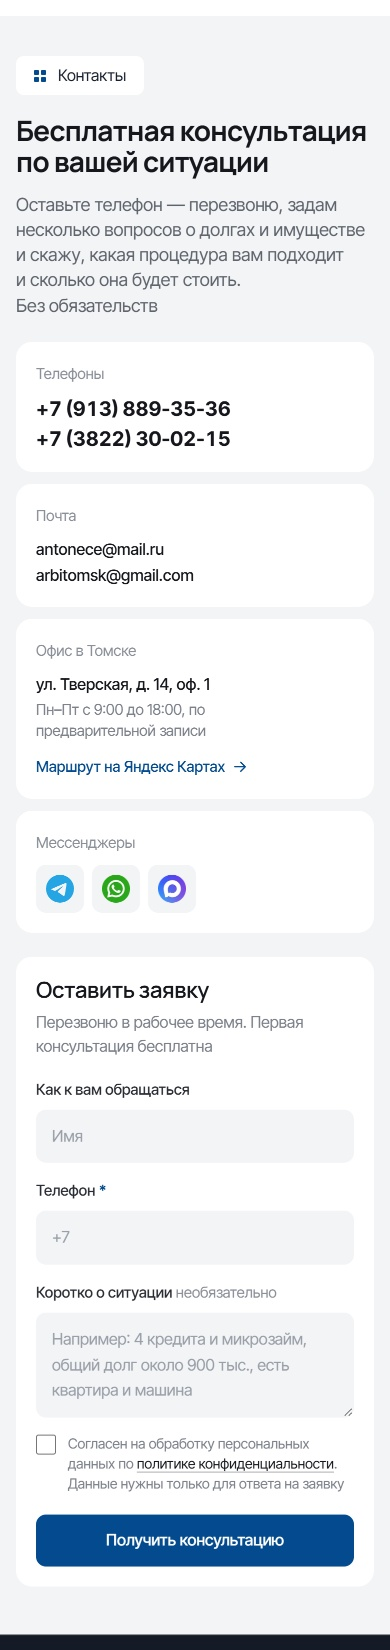
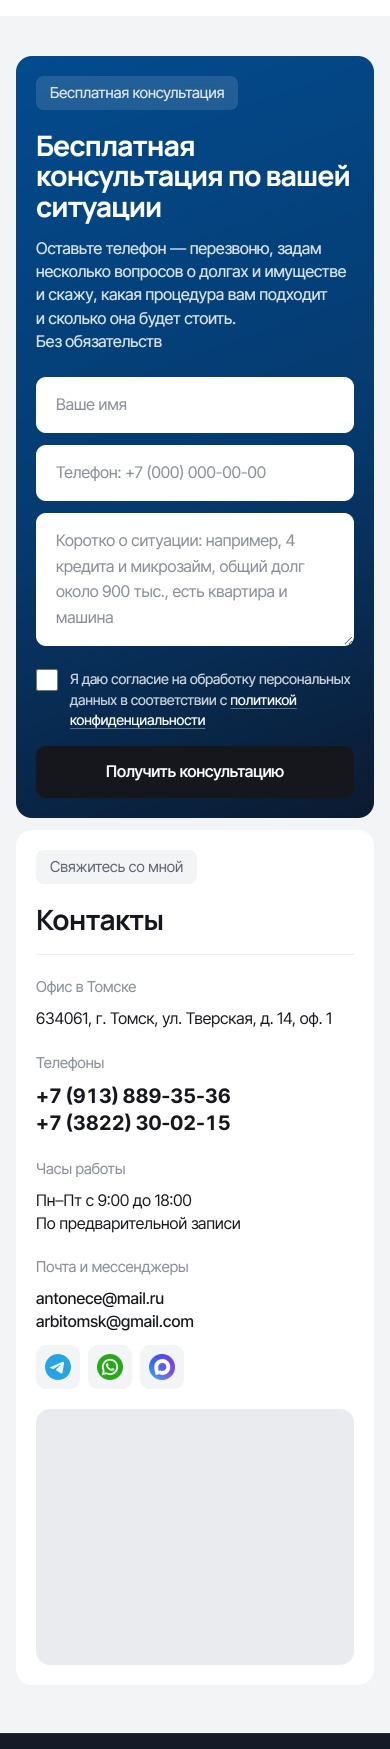
Форма и контакты: синяя карточка с формой, контакты с картой Яндекса

diff --git a/src/data/site.ts b/src/data/site.ts
@@ -57,8 +57,8 @@ export const contacts = {
   telegram: '',
   whatsapp: '',
   max: '',
-  yandexMapsUrl: 'https://yandex.ru/maps/?text=%D0%A2%D0%BE%D0%BC%D1%81%D0%BA%2C%20%D1%83%D0%BB.%20%D0%A2%D0%B2%D0%B5%D1%80%D1%81%D0%BA%D0%B0%D1%8F%2C%2014',
-  geo: { lat: 56.4617, lon: 84.9744 }, // ✖ приблизительно, уточнить по карте
+  yandexMapsUrl: 'https://yandex.ru/maps/?pt=84.971674,56.483464&z=17&l=map',
+  geo: { lat: 56.483464, lon: 84.971674 }, // координаты карточки офиса в 2ГИС (18.11.2026)
 };
 
 /** ◐ цены со старого сайта 2020–2022 — подтвердить перед запуском */

diff --git a/seo/decisions.md b/seo/decisions.md
@@ -39,3 +39,4 @@
 | 18.11.2026 | Блок отзывов HomeReviews после кейсов: 6 отзывов 2ГИС с темой-плашкой, заметная плашка оценки, белый фон с серыми карточками. «Обо мне» на телефоне: чёрная рамка возвращена, поля 12 px — заголовок 4 строки на 390+ (5 на 375) | Просьба дизайнера | — | высокая |
 | 18.11.2026 | Порядок главной: Первый экран → Для кого → Услуги → Этапы → Стоимость → Обо мне → Дела → Отзывы → Квиз → (Кому не подходит, Что сохранится, FAQ — по макетам) → Заявка. Цена поднята, квиз перенесён, чтобы два синих градиента не стояли рядом | Решение дизайнера | — | высокая |
 | 18.11.2026 | Номера дел на сайте замазаны «А67-****/2026» (maskCase в site.ts), ссылки «Проверить в картотеке» убраны; вместо них — название суда. Причина: по полному номеру в картотеке видно ФИО, рядом истории с деталями. Вернуть полные номера — после согласия клиентов/решения Антонца | Решение дизайнера | Полные номера | высокая |
+| 18.11.2026 | Форма и контакты по референсу дизайнера: синяя карточка с формой + белая «Контакты» с картой Яндекса (map-widget, метка по координатам из 2ГИС 56.483464, 84.971674; contacts.geo обновлён) | Референс дизайнера | — | средняя: карта в iframe не проверена в браузере (среда блокирует чужие iframe) |
